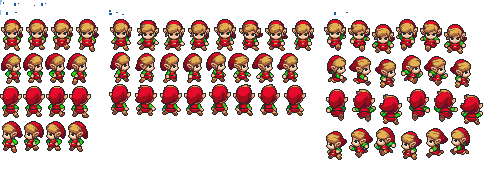
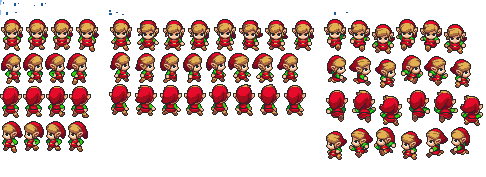
display player2 on gameplay screen

Changed region(s): [[0.6481, 0.5085, 1.0, 0.7062]]

diff --git a/public/game_scripts/game.js b/public/game_scripts/game.js
@@ -17,7 +17,8 @@ const game = (function ()  {
         $("#final-gems").text(collectedGems);
 
         /* Create the sprites in the game */
-        const player = Player(context, 427, 240, gameArea); // The player
+        const players = [Player(context, 427, 240, gameArea,1),
+                                Player(context,  75, 200, gameArea,2)]
         const gem = Gem(context, 427, 350, "green");        // The gem
         const fires = [
             Fire(context, 60, 180),  // top-left
@@ -28,7 +29,7 @@ const game = (function ()  {
 
         /* The main processing of the game */
         function doFrame(now) {
-            if (gameStartTime == 0) gameStartTime = now;
+            if (gameStartTime === 0) gameStartTime = now;
 
             /* Update the time remaining */
             const gameTimeSoFar = now - gameStartTime;
@@ -38,7 +39,7 @@ const game = (function ()  {
             sounds.background.play();
             /* TODO */
             /* Handle the game over situation here */
-            if (timeRemaining == 0) {
+            if (timeRemaining === 0) {
                 $("#final-gems").text(collectedGems);
                 console.log("Game is ended")
 
@@ -55,21 +56,25 @@ const game = (function ()  {
             /* Update the sprites */
             for (const fire of fires) fire.update(now);
             gem.update(now);
-            player.update(now);
+            players.forEach(player => {
+                player.update(now);
+            });
 
             /* TODO */
             /* Randomize the gem and collect the gem here */
             if (gem.getAge(now) >= gemMaxAge) gem.randomize(gameArea);
 
             const { x, y } = gem.getXY();
-            if (player.getBoundingBox().isPointInBox(x, y)) {
-                gem.randomize(gameArea);
-                sounds.collect.currentTime = 0;
-                sounds.collect.play();
-                collectedGems++;
+            players.forEach(player => {
+                if (player.getBoundingBox().isPointInBox(x, y)) {
+                    gem.randomize(gameArea);
+                    sounds.collect.currentTime = 0;
+                    sounds.collect.play();
+                    collectedGems++;
 
-                $("#final-gems").text(collectedGems);
-            }
+                    $("#final-gems").text(collectedGems);
+                }
+            });
 
 
             /* Clear the screen */
@@ -78,7 +83,9 @@ const game = (function ()  {
             /* Draw the sprites */
             for (const fire of fires) fire.draw();
             gem.draw();
-            player.draw();
+            players.forEach(player => {
+                player.draw();
+            });
 
             /* Process the next frame */
             requestAnimationFrame(doFrame);
@@ -92,19 +99,29 @@ const game = (function ()  {
                 /* Handle the key down */
                 switch (event.keyCode) {
                     case 37:
-                        player.move(1);
+                        players.forEach(player => {
+                            player.move(1);
+                        });
                         break;
                     case 38:
-                        player.move(2);
+                        players.forEach(player => {
+                            player.move(2);
+                        });
                         break;
                     case 39:
-                        player.move(3);
+                        players.forEach(player => {
+                            player.move(3);
+                        });
                         break;
                     case 40:
-                        player.move(4);
+                        players.forEach(player => {
+                            player.move(4);
+                        });
                         break;
                     case 32:
-                        player.speedUp();
+                        players.forEach(player => {
+                            player.speedUp();
+                        });
                         break;
                 }
             });
@@ -116,19 +133,29 @@ const game = (function ()  {
                 /* Handle the key up */
                 switch (event.keyCode) {
                     case 37:
-                        player.stop(1);
+                        players.forEach(player => {
+                            player.stop(1);
+                        });
                         break;
                     case 38:
-                        player.stop(2);
+                        players.forEach(player => {
+                            player.stop(2);
+                        });
                         break;
                     case 39:
-                        player.stop(3);
+                        players.forEach(player => {
+                            player.stop(3);
+                        });
                         break;
                     case 40:
-                        player.stop(4);
+                        players.forEach(player => {
+                            player.stop(4);
+                        });
                         break;
                     case 32:
-                        player.slowDown();
+                        players.forEach(player => {
+                            player.slowDown();
+                        });
                         break;
                 }
         });

diff --git a/public/game_scripts/player.js b/public/game_scripts/player.js
@@ -3,11 +3,11 @@
 // - `x` - The initial x position of the player
 // - `y` - The initial y position of the player
 // - `gameArea` - The bounding box of the game area
-const Player = function(ctx, x, y, gameArea) {
+const Player = function(ctx, x, y, gameArea, playerID) {
 
     // This is the sprite sequences of the player facing different directions.
     // It contains the idling sprite sequences `idleLeft`, `idleUp`, `idleRight` and `idleDown`,
-    const sequences = {
+    const sequencesForPlayer1 = {
         /* Idling sprite sequences for facing different directions */
         idleDown:  { x: 0, y: 20, width: 25, height: 32, count: 4, timing: 500, loop: true },
         idleRight: { x: 0, y: 53, width: 22, height: 30, count: 4, timing: 500, loop: true },
@@ -21,14 +21,31 @@ const Player = function(ctx, x, y, gameArea) {
         moveLeft:  { x: 326, y: 127, width: 24, height: 33, count: 6, timing: 50, loop: true },
     };
 
+    const sequencesForPlayer2 = {
+        /* Idling sprite sequences for facing different directions */
+        idleDown:  { x: 0, y: 19, width: 25, height: 33, count: 4, timing: 500, loop: true },
+        idleRight: { x: 0, y: 53, width: 22, height: 32, count: 4, timing: 500, loop: true },
+        idleUp:    { x: 0, y: 86, width: 23, height: 32, count: 4, timing: 500, loop: true },
+        idleLeft:  { x: 0, y: 121, width: 22, height: 32, count: 4, timing: 500, loop: true },
+
+        /* Moving sprite sequences for facing different directions */
+        moveDown:  { x: 323, y: 19, width: 24, height: 35, count: 6, timing: 50, loop: true },
+        moveRight: { x: 324, y: 55, width: 25, height: 33, count: 6, timing: 50, loop: true },
+        moveUp:    { x: 326, y: 90, width: 26.16, height: 36, count: 6, timing: 50, loop: true },
+        moveLeft:  { x: 324, y: 127, width: 25, height: 33, count: 6, timing: 50, loop: true },
+    };
+
     // This is the sprite object of the player created from the Sprite module.
     const sprite = Sprite(ctx, x, y);
+    const sequences = playerID === 1 ? sequencesForPlayer1 : sequencesForPlayer2;
+    const spriteSheet = playerID === 1 ? "./images/player1.png" : "./images/player2.png";
 
     // The sprite object is configured for the player sprite here.
-    sprite.setSequence(sequences.idleDown)
-          .setScale(2)
-          .setShadowScale({ x: 0.75, y: 0.20 })
-          .useSheet("./images/player1.png");
+    sprite
+        .setSequence(sequences.idleDown)
+        .setScale(2)
+        .setShadowScale({ x: 0.75, y: 0.20 })
+        .useSheet(spriteSheet);
 
     // This is the moving direction, which can be a number from 0 to 4:
     // - `0` - not moving
